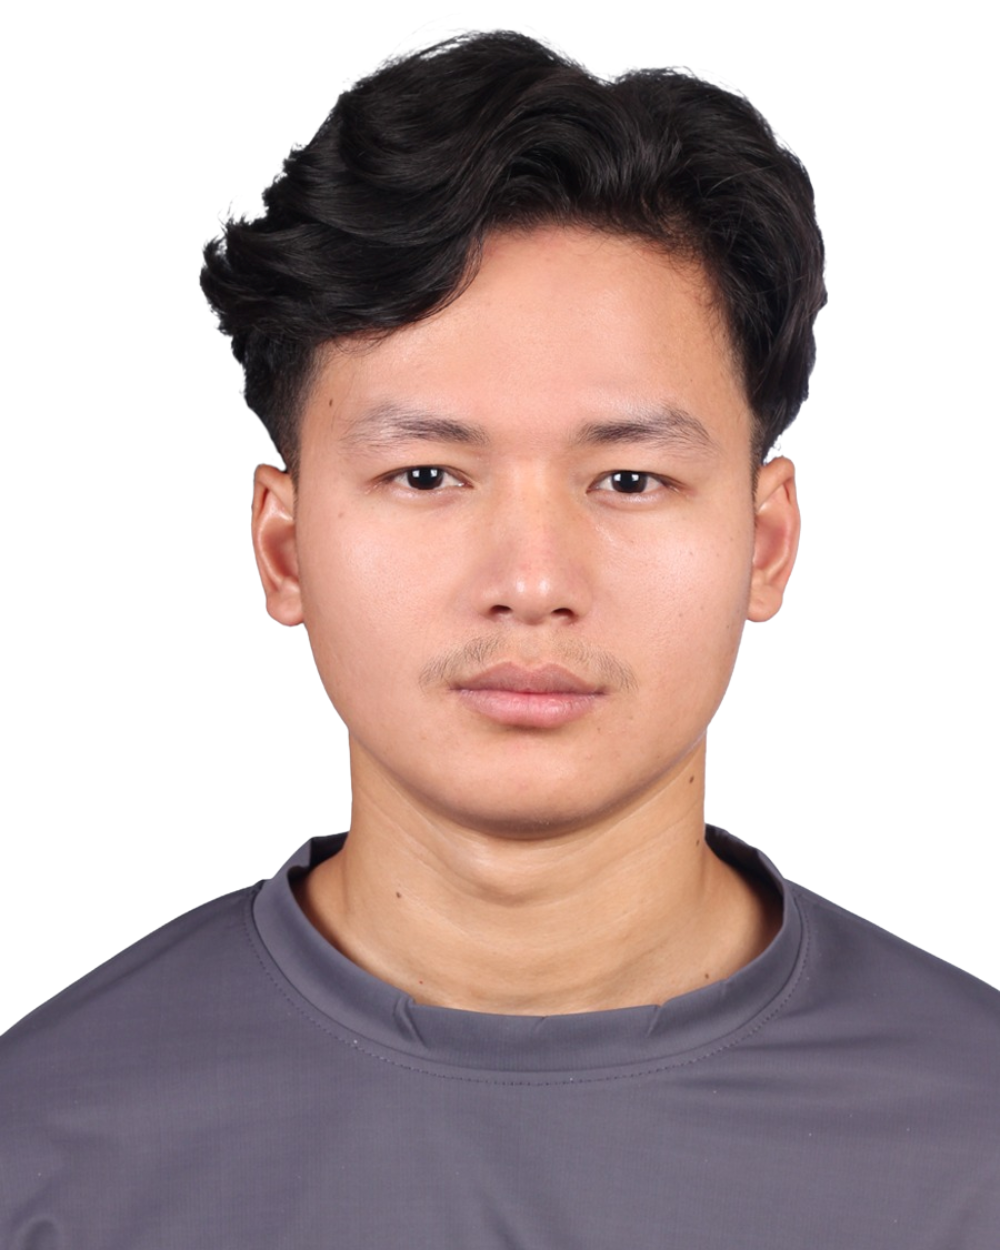
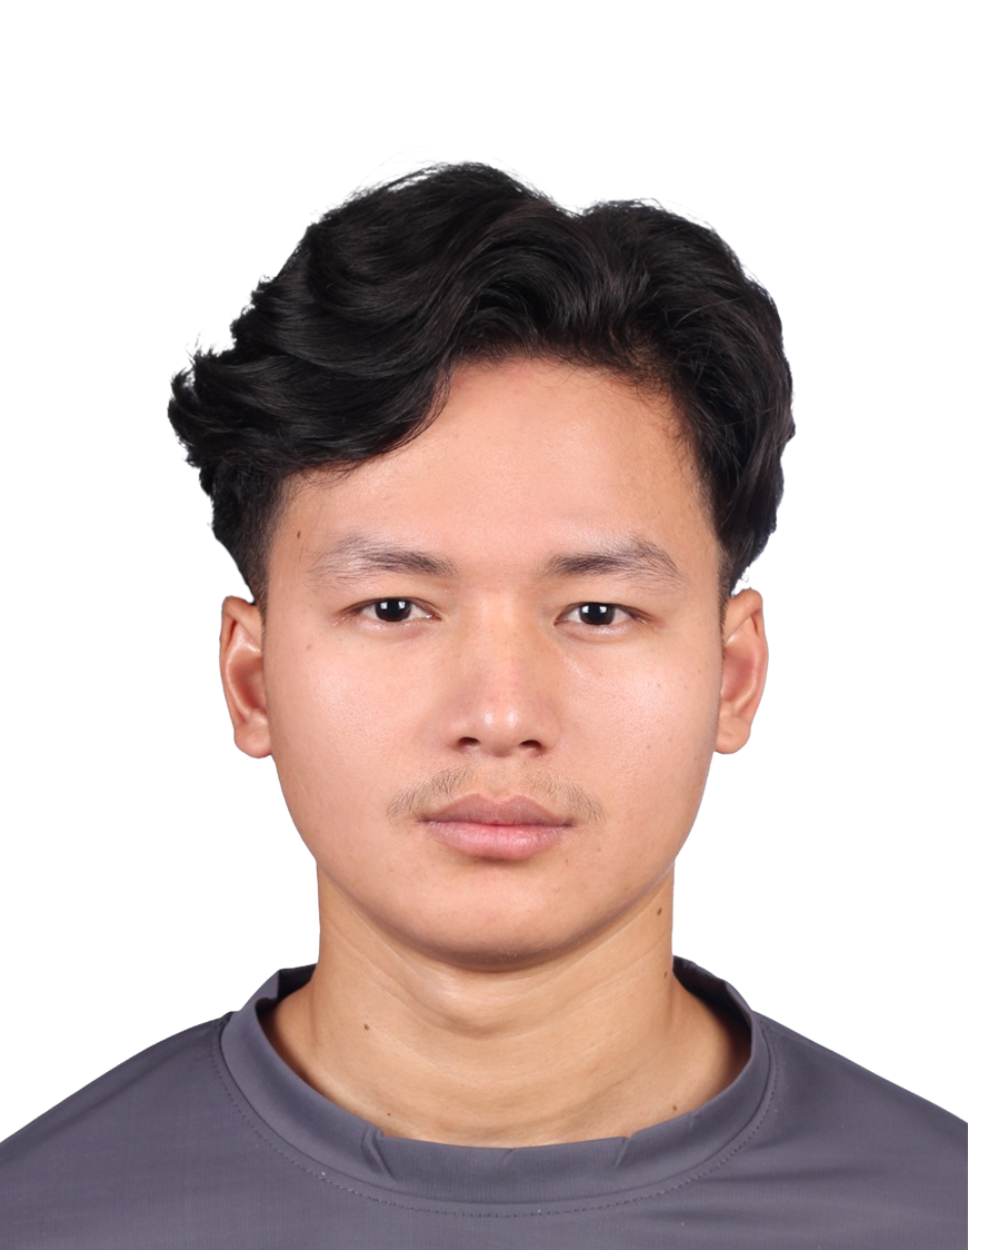
Profile photo changed

diff --git a/src/global.css b/src/global.css
@@ -715,8 +715,8 @@ main h6 {
   align-self: center;
   justify-self: center;
   width: min(400px, 100%);
-  aspect-ratio: 4 / 5;
-  border-radius: var(--radius-lg);
+  aspect-ratio: 1 / 1;
+  border-radius: 50%;
   padding: 10px;
   background: rgba(255, 255, 255, 0.04);
   border: 1px solid var(--glass-border);
@@ -728,7 +728,7 @@ main h6 {
   width: 100%;
   height: 100%;
   display: block;
-  border-radius: calc(var(--radius-lg) - 6px);
+  border-radius: 50%;
   object-fit: cover;
 }
 
